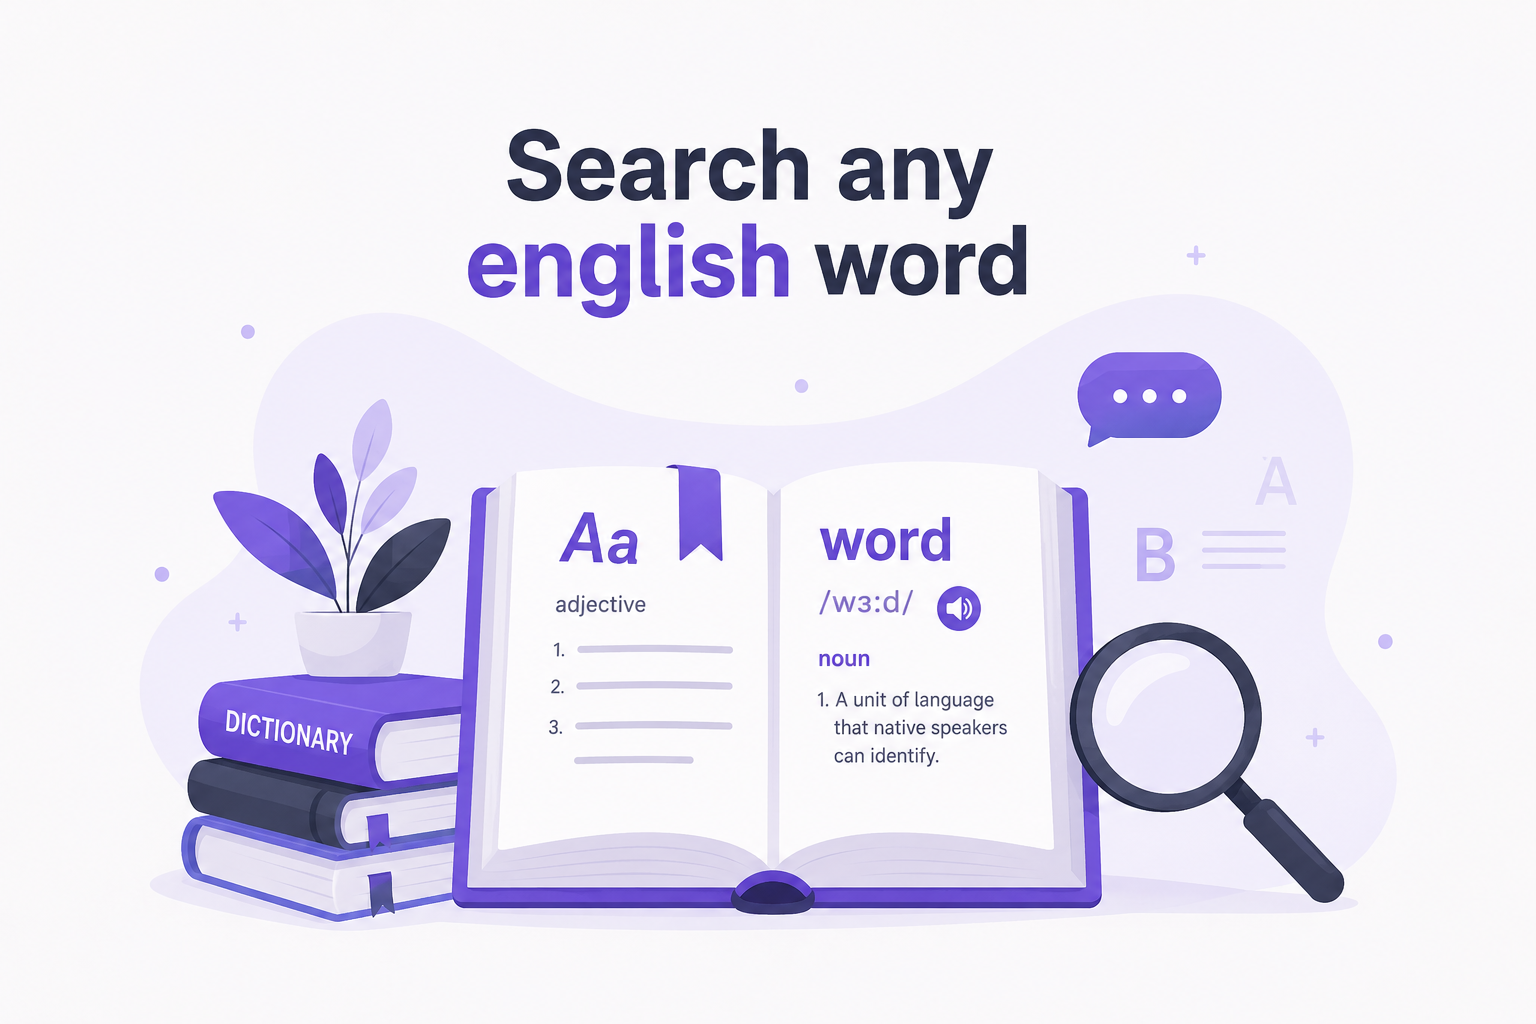
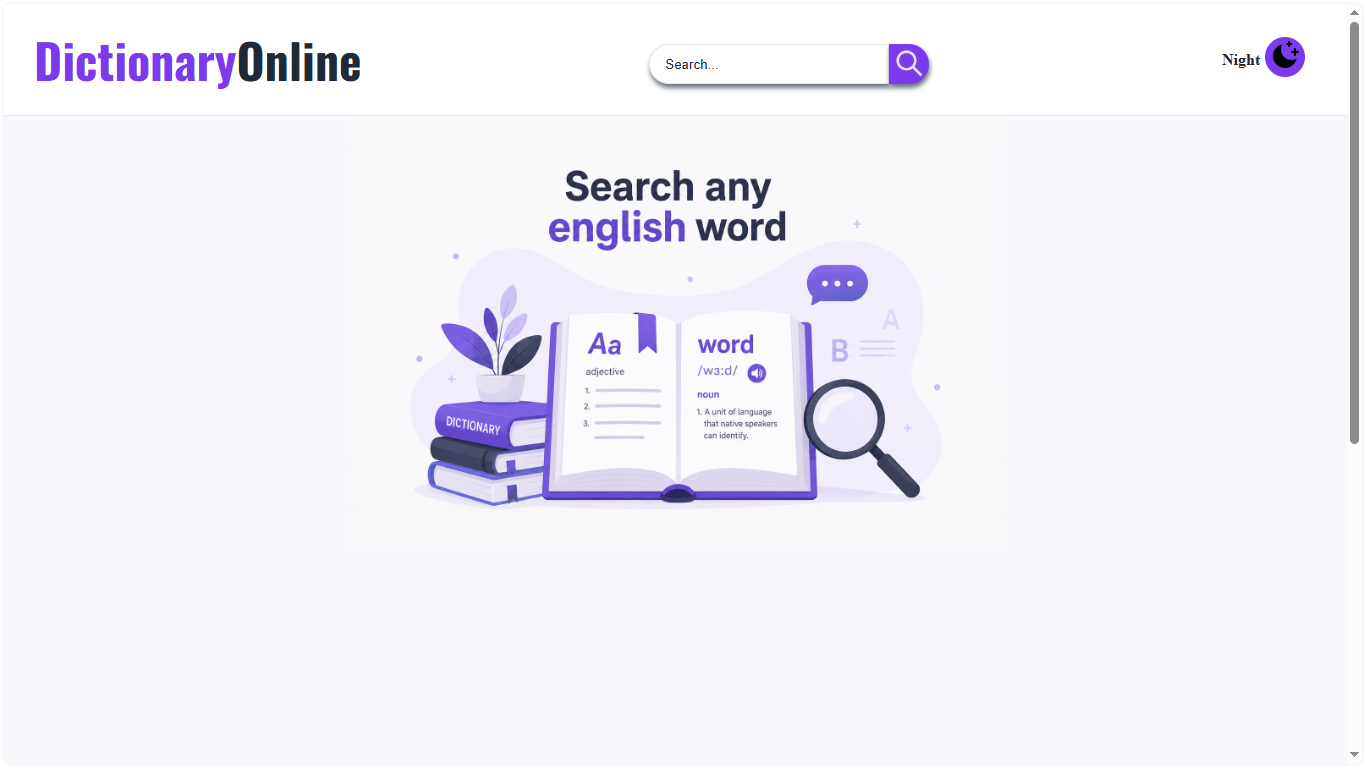
dictionary-spa captures ready, structure files updated, api url for deploy established

diff --git a/frontend/index.html b/frontend/index.html
@@ -3,7 +3,8 @@
 <head>
     <meta charset="UTF-8">
     <meta name="viewport" content="width=device-width, initial-scale=1.0">
-    <title>Document</title>
+    <title>DictionaryOnline</title>
+
     <link rel="stylesheet" href="./css/layout.css">
     <link rel="stylesheet" href="./css/header.css">
     <link rel="stylesheet" href="./css/phonetic.css">
@@ -41,7 +42,7 @@
     </header>
 
     <div class="landing">
-        <img src="./assets/landing_img.png" alt="Dictionary landing">
+        <img src="./assets/landing_img-light.png" alt="Dictionary landing">
     </div>
 
     <div class="layout hidden">

diff --git a/frontend/js/api/dictionaryApi.js b/frontend/js/api/dictionaryApi.js
@@ -1,4 +1,8 @@
 export async function getWordData(data) {
+    const API_URL = location.hostname === "localhost" 
+        ? "http://127.0.0.1:8000"
+        : "https://DictionaryOnline.es.onrender.com"
+
     const response = await fetch(`http://127.0.0.1:8000/api/search/en/definition?word=${data}`);
         
     if (!response.ok) throw new Error(response.statusText);

diff --git a/frontend/js/components/dictionaryResult.js b/frontend/js/components/dictionaryResult.js
@@ -1,5 +1,5 @@
 import { createDefinitionsItem, createTermsItem } from "../components/meaning.js";
-import { searchWord } from "../services/searchWord.js";
+import { searchWord } from "../helpers/searchWord.js";
 import { capitalize } from "../utils/capitalize.js";
 
 const $result = document.querySelector(".dictionary-result");

diff --git a/frontend/js/components/error.js b/frontend/js/components/error.js
@@ -1,4 +1,4 @@
-import { searchWord } from "../services/searchWord.js";
+import { searchWord } from "../helpers/searchWord.js";
 
 const $result = document.querySelector(".dictionary-result");
 

diff --git a/frontend/js/components/historyPanel.js b/frontend/js/components/historyPanel.js
@@ -1,4 +1,4 @@
-import { searchWord } from "../services/searchWord.js";
+import { searchWord } from "../helpers/searchWord.js";
 
 const log = [];
 